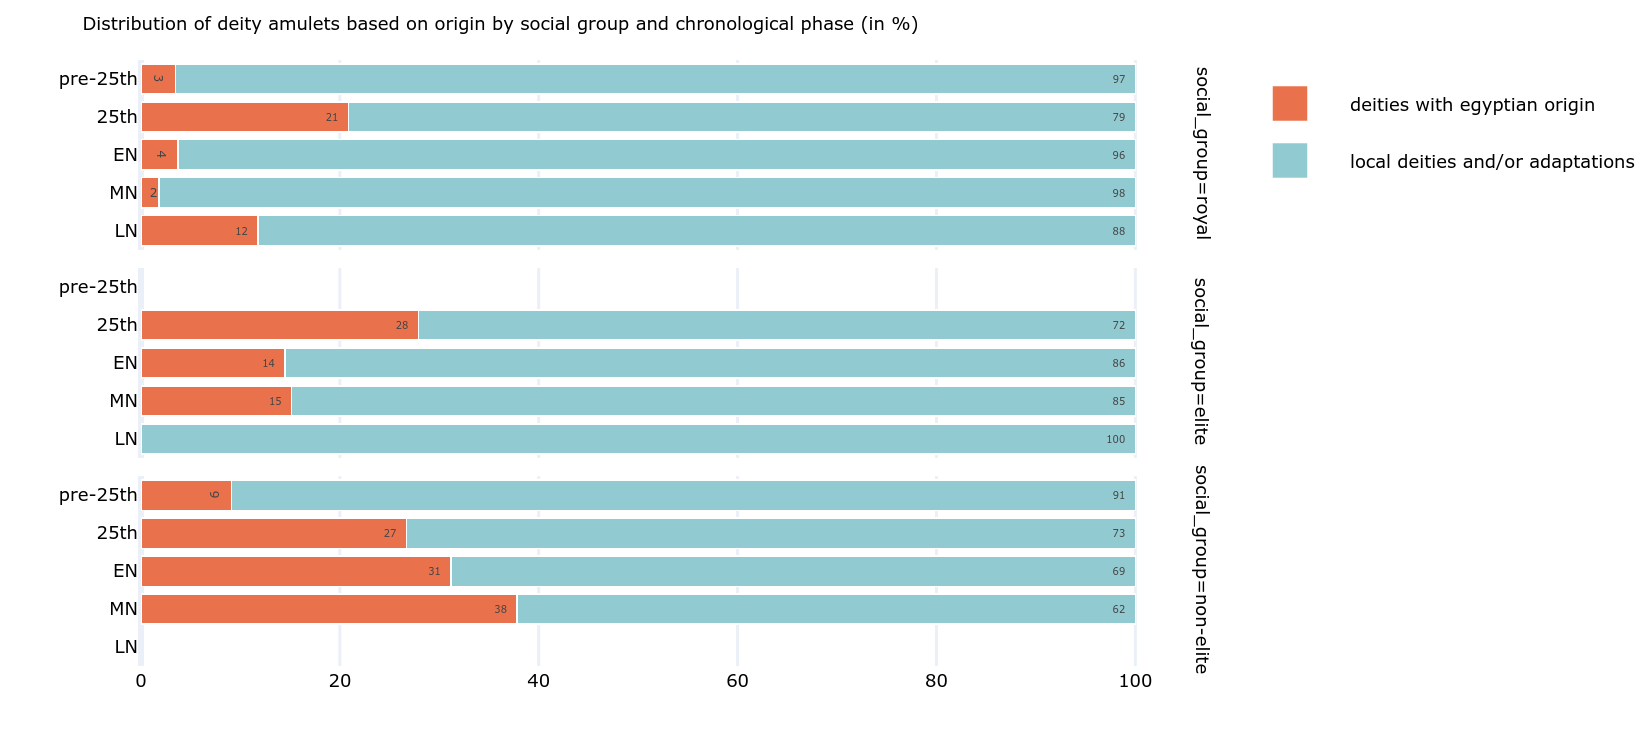
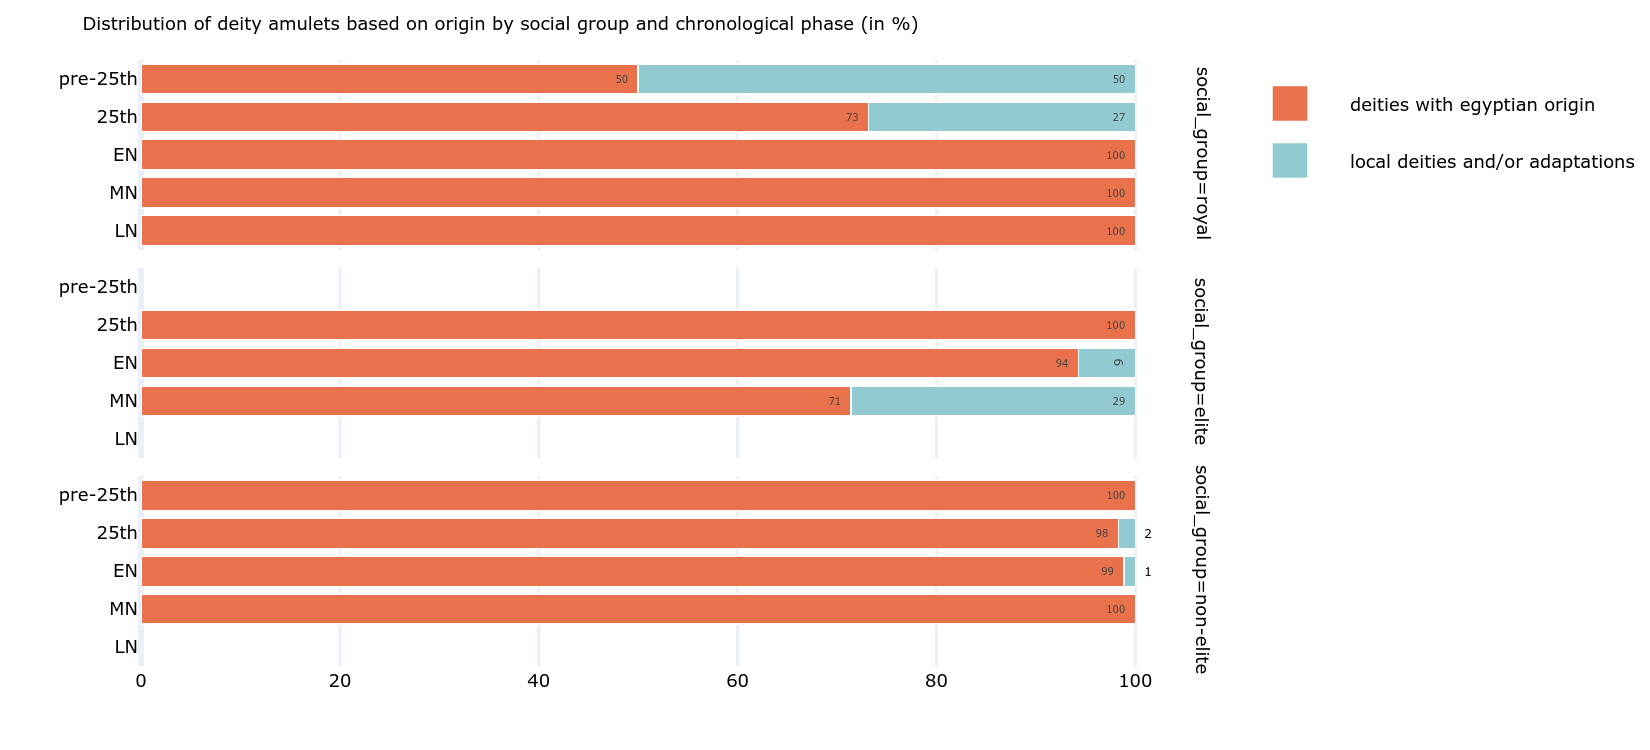
+ graphs

Changed region(s): [[0.0927, 0.0613, 0.7109, 0.3373], [0.0618, 0.3987, 0.7109, 0.6133], [0.1236, 0.644, 0.7109, 0.828]]

diff --git a/chapter6/motifs_phase_deities.py b/chapter6/motifs_phase_deities.py
@@ -11,24 +11,69 @@ load_dotenv()
 engine = create_engine(f'mysql+pymysql://{os.getenv("DB_USER")}:{os.getenv("DB_PASSWORD")}@localhost/{os.getenv("DB_NAME")}')
 
 query = """
-SELECT
-    b.temp_early, 
-    b.temp_late,
-    b.social_group,
+WITH expanded_forms AS (
+    SELECT
+        a.amulet_id,
+        b.temp_early, 
+        b.temp_late,
+        b.social_group,
+        a.form as form
+    FROM amulets a
+    JOIN burials b ON b.burial_id = a.burial_id
+    WHERE dating = 'napatan' 
+        AND b.site_id IN (1,2,4,5,6,7,8,9,10) 
+        AND a.type = 'deity' 
+        AND a.form IS NOT NULL
+
+    UNION ALL
+
+    SELECT
+        a.amulet_id,
+        b.temp_early, 
+        b.temp_late,
+        b.social_group,
+        a.form2 as form
+    FROM amulets a
+    JOIN burials b ON b.burial_id = a.burial_id
+    WHERE dating = 'napatan' 
+        AND b.site_id IN (1,2,4,5,6,7,8,9,10) 
+        AND a.type = 'deity' 
+        AND a.form2 IS NOT NULL
+
+    UNION ALL
+
+    SELECT
+        a.amulet_id,
+        b.temp_early, 
+        b.temp_late,
+        b.social_group,
+        a.form3 as form
+    FROM amulets a
+    JOIN burials b ON b.burial_id = a.burial_id
+    WHERE dating = 'napatan' 
+        AND b.site_id IN (1,2,4,5,6,7,8,9,10) 
+        AND a.type = 'deity' 
+        AND a.form3 IS NOT NULL
+)
+
+SELECT 
+    temp_early, 
+    temp_late,
+    social_group,
     CASE 
-        WHEN a.form IN ('aker', 'amun', 'amun/isis/horus', 'amun/khonsu/monthu', 'amun/mut/khonsu',
+        WHEN form IN ('aker', 'amun', 'amun/isis/horus', 'amun/khonsu/monthu', 'amun/mut/khonsu',
         'anubis', 'bastet', 'bes', 'duamutef', 'hapi', 'hapi, nile god', 'hathor', 'heh', 
         'horus', 'horus child', 'imsety', 'isis', 'isis and horus', 'khonsu',
         'maat', 'min', 'mut', 'nefertum', 'neith', 'nephthys', 'onuris', 'osiris', 
         'pataikos', 'ptah', 'qebehsenuef', 'ra', 'ra-horakhty', 'sekhmet', 'shu',
         'taweret', 'thoth') THEN 'deities with egyptian origin'
     	ELSE 'local deities and/or adaptations'
-    END AS form_source,
-    COUNT(a.amulet_id) as total
-FROM amulets a
-JOIN burials b ON b.burial_id = a.burial_id
-WHERE dating = 'napatan' AND b.site_id IN (1,2,4,5,6,7,8,9,10)
-GROUP BY 1,2,3,4
+    END AS form,
+    COUNT(amulet_id) AS total
+FROM expanded_forms
+WHERE form NOT IN ('animals', 'ankh', 'ankh/sun disc/udjat', 'ape', 'child', 'crocodile', 'deities', 'deity', 'giraffe', 'jackal', 'lunar crescent', 'monkeys',
+    'nb sign', 'scorpion', 'tree', 'uraeus', 'winged scarab', 'winged uraeus')
+GROUP BY 1,2,3,4;
 """
 
 df = pd.read_sql(query, engine)
@@ -62,7 +107,7 @@ for _, row in df.iterrows():
         expanded_rows.append({
             'phase': row['temp_early'],
             'social_group': row['social_group'],
-            'form_source': row['form_source'],
+            'form': row['form'],
             'total': row['total']  # same count
         })
     else:
@@ -72,7 +117,7 @@ for _, row in df.iterrows():
             expanded_rows.append({
                 'phase': phase,
                 'social_group': row['social_group'],
-                'form_source': row['form_source'],
+                'form': row['form'],
                 'total': row['total'] / len(phases)  # splits count evenly
             })
 
@@ -85,7 +130,7 @@ phase_group_totals.rename(columns={'total': 'phase_group_total'}, inplace=True)
 
 # merge totals back to aggregate by form_source
 df_grouped = df_expanded.merge(phase_group_totals, on=['phase', 'social_group'])
-df_grouped = df_grouped.groupby(['phase', 'social_group', 'form_source', 'phase_group_total'], as_index=False)['total'].sum()
+df_grouped = df_grouped.groupby(['phase', 'social_group', 'form', 'phase_group_total'], as_index=False)['total'].sum()
 
 # percentage based on phase
 df_grouped['percentage'] = round(df_grouped['total'] * 100.0 / df_grouped['phase_group_total'], 2)
@@ -96,14 +141,14 @@ df_grouped = df_grouped.drop(['total', 'phase_group_total'], axis=1)
 # order phases and group
 df_grouped['phase'] = pd.Categorical(df_grouped['phase'], categories=phase_order, ordered=True)
 
-df_grouped = df_grouped.sort_values(['phase', 'social_group', 'form_source'])
+df_grouped = df_grouped.sort_values(['phase', 'social_group', 'form'])
 
 fig = px.bar(
     df_grouped,
     x='percentage',
     y='phase',
     text=df_grouped['percentage'].round(0),
-    color='form_source',
+    color='form',
     facet_row='social_group',
     template="plotly_white",
     barmode='stack',

diff --git a/chapter6/distribution_total_burials_phase.py b/chapter6/distribution_total_burials_phase.py
@@ -1,0 +1,117 @@
+import pandas as pd
+import plotly.express as px
+from sqlalchemy import create_engine
+import plotly.io as pio
+import plotly.graph_objects as go
+import os
+from dotenv import load_dotenv
+
+load_dotenv()
+
+engine = create_engine(f'mysql+pymysql://{os.getenv("DB_USER")}:{os.getenv("DB_PASSWORD")}@localhost/{os.getenv("DB_NAME")}')
+
+query = """
+WITH total_counts AS (
+    SELECT 
+    	b.temp_early,
+    	b.temp_late,
+    	b.social_group,
+    	COUNT(burial_id) as total_burials
+    FROM burials b
+	WHERE dating = 'napatan' AND b.site_id IN (1,2,4,5,6,7,8,9,10)
+	GROUP BY 1,2,3
+)
+SELECT
+	b.temp_early,
+    b.temp_late,
+    b.social_group,
+    tc.total_burials,
+    COUNT(a.amulet_id) as total_amulets
+FROM burials b
+JOIN amulets a ON a.burial_id = b.burial_id
+JOIN total_counts tc ON tc.social_group = b.social_group AND tc.temp_early = b.temp_early AND tc.temp_late = b.temp_late
+GROUP BY 1,2,3,4
+"""
+
+df = pd.read_sql(query, engine)
+
+custom_colors = ['#e9724d', '#92cad1', '#d6d727', '#79ccb3', '#868686',
+                 '#8b4513', '#2f4f4f', '#ff6b4a', '#20b2aa', '#daa520',
+                 '#cd5c5c', '#4682b4', '#e8ea7a', '#98fb98', '#696969']
+
+phase_order = ["pre-25th", "25th", "EN", "MN", "LN"]
+
+# empty list to store
+expanded_rows = []
+
+# iterate over rows to find same phases (one row) or two phases (one row for each)
+for _, row in df.iterrows():
+    if row['temp_early'] == row['temp_late']:
+        # single phase
+        expanded_rows.append({
+            'phase': row['temp_early'],
+            'social_group': row['social_group'],
+            'total_burials': row['total_burials'],
+            'total_amulets': row['total_amulets']  # same count
+        })
+    else:
+        # multi-phase: split the percentage evenly
+        phases = [row['temp_early'], row['temp_late']]
+        for phase in phases:
+            expanded_rows.append({
+                'phase': phase,
+                'social_group': row['social_group'],
+                'total_burials': row['total_burials'] / len(phases),
+                'total_amulets': row['total_amulets'] / len(phases)  # splits count evenly
+            })
+
+# transform list into df
+df_expanded = pd.DataFrame(expanded_rows)
+
+# aggregate by phase and social group
+df_grouped = df_expanded.groupby(['phase', 'social_group'], as_index=False).agg({
+    'total_burials': 'sum',
+    'total_amulets': 'sum'
+})
+
+# put in correct order
+df_grouped['phase'] = pd.Categorical(df_grouped['phase'], categories=phase_order, ordered=True)
+
+df_grouped = df_grouped.sort_values('phase')
+
+fig = px.bar(
+    df_grouped,
+    x='phase',
+    y=['total_burials', 'total_amulets'],
+    barmode='group',
+    facet_row='social_group',
+    template="plotly_white",
+    title='Correlation of number of tombs and amulets per social group and chronological phase',
+    color_discrete_sequence=custom_colors,
+    category_orders={"phase": phase_order, "social_group": ["royal", "elite", "non-elite"]}
+)
+
+fig.update_traces(
+    texttemplate='%{y:.0f}',
+    textposition='auto'
+)
+
+fig.update_traces(name='Total amulets', selector={'name': 'total_amulets'})
+fig.update_traces(name='Total tombs', selector={'name': 'total_burials'})
+
+fig.update_layout(
+    font=dict(
+        family="Verdana, sans-serif",
+        color='black',
+        size=8),
+    legend_title_text='',
+    margin=dict(l=0, r=10, t=20, b=0),
+    autosize=True,
+    title_font=dict(size=8)
+)
+
+fig.update_traces(textposition='auto', textfont_size=4)
+fig.update_yaxes(title='', matches=None)
+fig.update_xaxes(title='')
+
+pio.write_image(fig, 'images/chapter6/distribution_total_burials_phase.png',scale=3, width=550, height=350)

diff --git a/chapter6/motifs_phase_animals.py b/chapter6/motifs_phase_animals.py
@@ -11,23 +11,67 @@ load_dotenv()
 engine = create_engine(f'mysql+pymysql://{os.getenv("DB_USER")}:{os.getenv("DB_PASSWORD")}@localhost/{os.getenv("DB_NAME")}')
 
 query = """
-SELECT
-    b.temp_early, 
-    b.temp_late,
-    b.social_group,
+WITH expanded_forms AS (
+    SELECT
+        a.amulet_id,
+        b.temp_early, 
+        b.temp_late,
+        b.social_group,
+        a.form as form
+    FROM amulets a
+    JOIN burials b ON b.burial_id = a.burial_id
+    WHERE dating = 'napatan' 
+        AND b.site_id IN (1,2,4,5,6,7,8,9,10) 
+        AND a.type = 'animal' 
+        AND a.form IS NOT NULL
+
+    UNION ALL
+
+    SELECT
+        a.amulet_id,
+        b.temp_early, 
+        b.temp_late,
+        b.social_group,
+        a.form2 as form
+    FROM amulets a
+    JOIN burials b ON b.burial_id = a.burial_id
+    WHERE dating = 'napatan' 
+        AND b.site_id IN (1,2,4,5,6,7,8,9,10) 
+        AND a.type = 'animal' 
+        AND a.form2 IS NOT NULL
+
+    UNION ALL
+
+    SELECT
+        a.amulet_id,
+        b.temp_early, 
+        b.temp_late,
+        b.social_group,
+        a.form3 as form
+    FROM amulets a
+    JOIN burials b ON b.burial_id = a.burial_id
+    WHERE dating = 'napatan' 
+        AND b.site_id IN (1,2,4,5,6,7,8,9,10) 
+        AND a.type = 'animal' 
+        AND a.form3 IS NOT NULL
+)
+
+SELECT 
+    temp_early, 
+    temp_late,
+    social_group,
     CASE 
-        WHEN a.form IN ('double frog', 'double ram') THEN 'double animals'
-        WHEN a.form IN ('hawk-headed crocodile', 'lion-headed fly', 'ram-headed scarab') THEN 'combination of animals'
-        WHEN a.form IN ('four apes', 'four-headed ram') THEN 'quadruple animals'
-        WHEN a.form IN ('cat', 'jackal', 'ibis', 'ape', 'crocodile', 'hippo', 'scarab', 
+        WHEN form IN ('double frog', 'double ram') THEN 'double animals'
+        WHEN form IN ('hawk-headed crocodile', 'lion-headed fly', 'ram-headed scarab') THEN 'combination of animals'
+        WHEN form IN ('four apes', 'four-headed ram') THEN 'quadruple animals'
+        WHEN form IN ('cat', 'jackal', 'ibis', 'ape', 'crocodile', 'hippo', 'scarab', 
             'vulture', 'hawk', 'bull', 'cow', 'lion', 'ram', 'snake', 'falcon') THEN 'animals associated with common egyptian deities'
         ELSE 'common animals'
     END AS form,
-    COUNT(a.amulet_id) as total
-FROM amulets a
-JOIN burials b ON b.burial_id = a.burial_id
-WHERE dating = 'napatan' AND b.site_id IN (1,2,4,5,6,7,8,9,10) AND a.type = 'animal'
-GROUP BY 1,2,3,4
+    COUNT(amulet_id) AS total
+FROM expanded_forms
+WHERE form NOT IN ('udjat', 'uraei', 'uraeus')
+GROUP BY 1,2,3,4;
 """
 
 df = pd.read_sql(query, engine)
